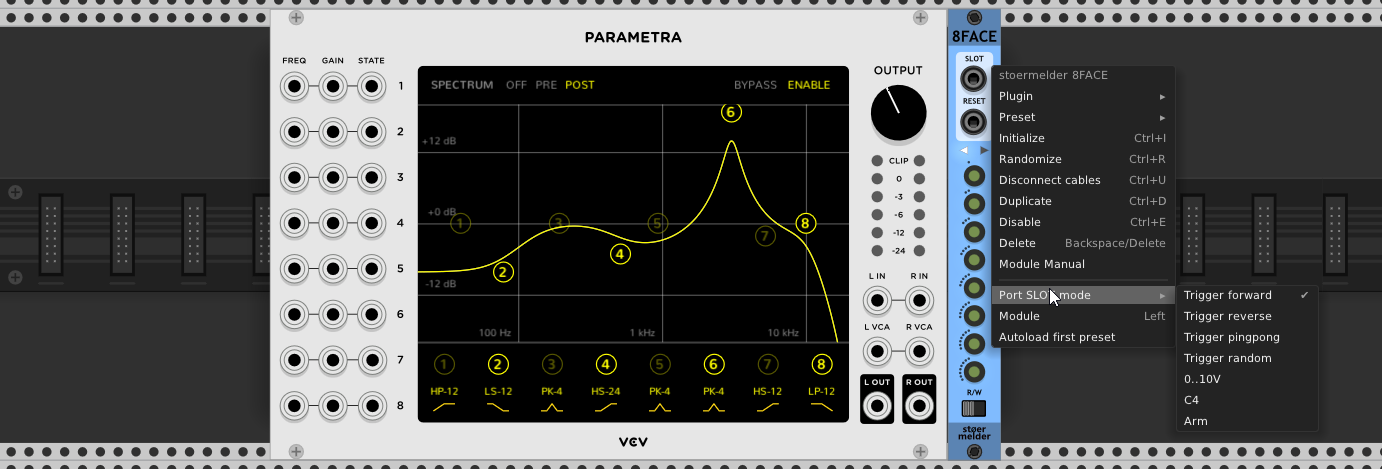
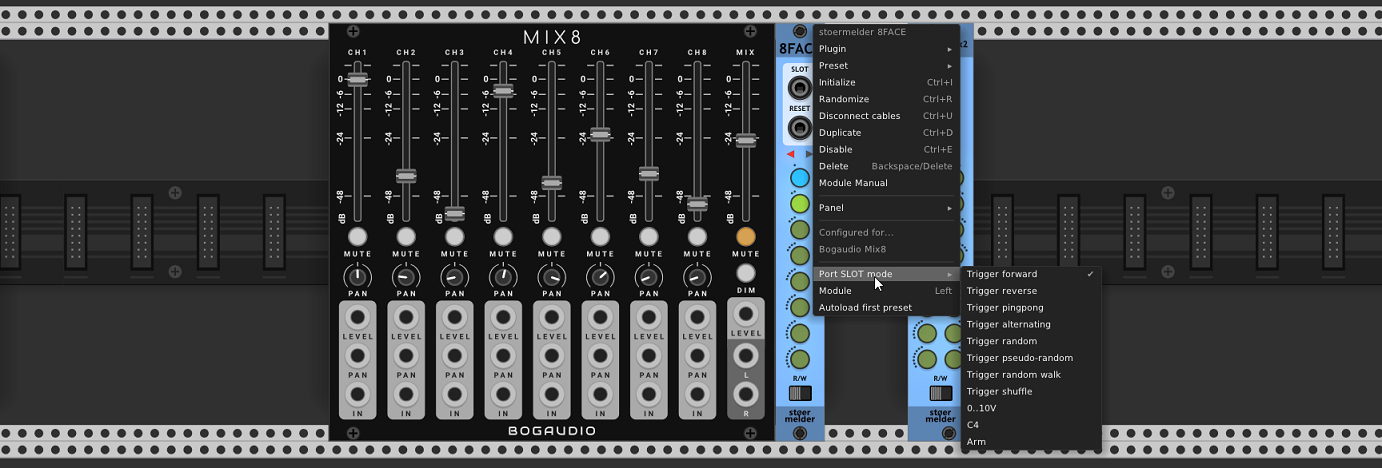
8Face - updated manual

diff --git a/docs/EightFace.md b/docs/EightFace.md
@@ -28,23 +28,29 @@ The fun begins when you use the port labelled "SLOT" for selecting preset slots 
 
 There are different modes for SLOT-port available, configured by context menu option:
 
-- Trigger forward:
-A trigger on SLOT advances 8FACE to the next slot. Empty slots are part of the sequence but won't have any effect on the controlled module.
+- **Trigger forward**: A trigger on SLOT advances 8FACE to the next slot. Empty slots are part of the sequence but won't have any effect on the controlled module.
 
 ![8FACE sequencing](./EightFace-trig.gif)
 
-- Trigger reverse (added in v1.1.0):
-Same as "Trigger forward", but reverse direction.
-- Trigger pingpong (added in v1.1.0):
-Same as "Trigger forward", but loops first forward then reverse.
-- Trigger random (added in v1.1.0):
-Same as "Trigger forward", but chooses the next preset randomly.
-- 0..10V:
-You can select a specific slot by voltage. A voltage 0-1.25V selects slot 1, 1.25-2.5V selects slot 2, and so on if all eight slots are active. Keep in mind that adjusting the length of the sequence also adjusts the voltage range for selecting individual slots: A sequence with length 2 will select slot 1 on voltage 0-5V etc.
-- C4:
-This mode follows the V/Oct-standard. C4 selects slot 1, C#4 selects slot 2 and so on.
-- Arm (renamed from "Clock" in v1.1.0):
-This mode is a kind of buffered trigger: First apply a clock signal on SLOT. Then you "arm" any slot manually or by MIDI-mapping by its button (resulting in a yellow LED) which will be activated on the next clock trigger (blue LED). This mode allows you manual preset changes synchronized to a clock.
+- **Trigger reverse** (added in v1.1.0): Same as "Trigger forward" but in reverse direction.
+
+- **Trigger pingpong** (added in v1.1.0): Same as "Trigger forward" but loops first forward then reverse.
+
+- **Trigger alternating** (added in v1.8.0): Same as "Trigger forward" but progresses in the following manner (for 6 active slots): 1, 2, 1, 3, 1, 4, 1, 5, 1, 6, 1, 5, 1, 4, 1, 3, 1, 2, ...
+
+- **Trigger random** (added in v1.1.0): Same as "Trigger forward", but chooses the next preset randomly.
+
+- **Trigger pseudo-random** (added in v1.8.0): Same as "Trigger random" but never chooses a slot multiple times in a row (which happens on "random").
+
+- **Trigger random walk** (added in v1.8.0): Same as "Trigger forward" but chooses the next slot randomly right next to the currently active slot.
+
+- **Trigger shuffle** (added in v1.8.0): Same as "Trigger forward" but works on a random permutation of the active slots: Every slot will be enabled once before the next permutation is randomly generated.
+
+- **0..10V**: You can select a specific slot by voltage. A voltage 0-1.25V selects slot 1, 1.25-2.5V selects slot 2, and so on if all eight slots are active. Keep in mind that adjusting the length of the sequence also adjusts the voltage range for selecting individual slots: A sequence with length 2 will select slot 1 on voltage 0-5V etc.
+
+- **C4**: This mode follows the V/Oct-standard. C4 selects slot 1, C#4 selects slot 2 and so on.
+
+- **Arm** (renamed from "Clock" in v1.1.0): This mode is a kind of buffered trigger: First apply a clock signal on SLOT. Then you "arm" any slot manually or by MIDI-mapping by its button (resulting in a yellow LED) which will be activated on the next clock trigger (blue LED). This mode allows you manual preset changes synchronized to a clock.
 
 ![8FACE arm mode](./EightFace-clock.gif)
 
